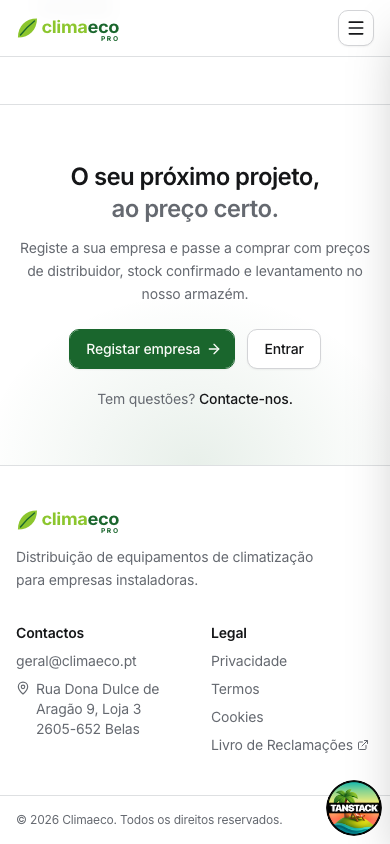
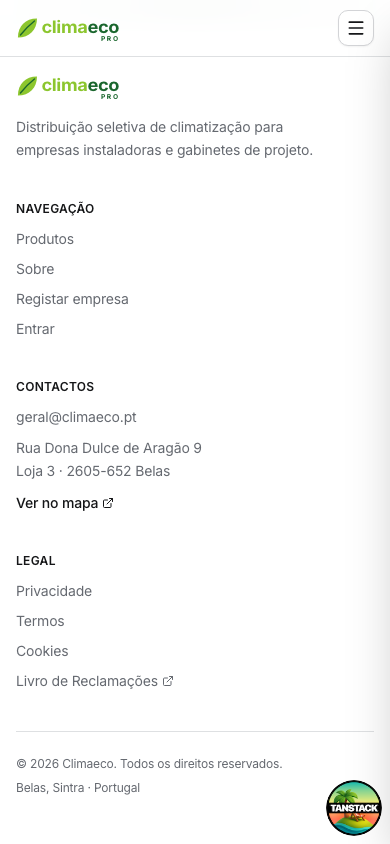
Landing: drop the steps' closing buttons; redesign the marketing footer
Footer is a four-column grid (brand, Navegação, Contactos, Legal) with
one link style, small uppercase column headings, the warehouse address
on two clean lines with a "Ver no mapa" link, and a bottom bar with the
copyright on the left and the location on the right. MORADA_ARMAZEM is
split into rua / loja / localidade so the footer and the map pill break
at sensible points.

Changed region(s): [[0.0308, 0.0924, 0.9538, 0.9858], [0.6154, 0.6469, 0.8, 0.6777], [0.6769, 0.4005, 0.7692, 0.4313]]

diff --git a/client-frontend/src/components/shell/marketing-shell.tsx b/client-frontend/src/components/shell/marketing-shell.tsx
@@ -1,6 +1,6 @@
 import { useEffect, useState } from "react"
 import { Link, useRouterState } from "@tanstack/react-router"
-import { ExternalLink, MapPin, Menu } from "lucide-react"
+import { ExternalLink, Menu } from "lucide-react"
 
 import { Wordmark } from "@/components/brand/wordmark"
 import { Button } from "@/components/ui/button"
@@ -176,40 +176,77 @@ function MenuMovel() {
 const LIGACAO_RODAPE =
   "text-sm text-muted-foreground transition-colors hover:text-foreground"
 
+/** One footer column: a small heading and a stack of links. */
+function ColunaRodape({
+  titulo,
+  children,
+}: {
+  titulo: string
+  children: React.ReactNode
+}) {
+  return (
+    <div className="flex flex-col gap-3">
+      <p className="text-xs font-semibold tracking-wide text-foreground uppercase">
+        {titulo}
+      </p>
+      <div className="flex flex-col gap-2.5">{children}</div>
+    </div>
+  )
+}
+
 function RodapeMarketing() {
   return (
     <footer id="contactos" className="mt-auto border-t">
-      <div className="mx-auto flex max-w-6xl flex-col gap-8 px-4 py-10 sm:px-6 md:flex-row md:items-start md:justify-between">
-        <div className="flex flex-col gap-3">
-          <Wordmark className="h-7 self-start" />
-          <p className="max-w-xs text-sm leading-relaxed text-muted-foreground">
-            Distribuição de equipamentos de climatização para empresas
-            instaladoras.
-          </p>
-        </div>
+      <div className="mx-auto max-w-6xl px-4 py-12 sm:px-6 md:py-14">
+        <div className="grid gap-10 md:grid-cols-[minmax(0,1.4fr)_repeat(3,minmax(0,1fr))] md:gap-8">
+          {/* Brand */}
+          <div className="flex max-w-xs flex-col gap-4">
+            <Wordmark className="h-7 self-start" />
+            <p className="text-sm leading-relaxed text-muted-foreground">
+              Distribuição seletiva de climatização para empresas instaladoras e
+              gabinetes de projeto.
+            </p>
+          </div>
 
-        <div className="grid grid-cols-2 gap-8 sm:grid-cols-3 md:gap-12">
-          <div className="flex flex-col gap-2">
-            <p className="text-sm font-semibold">Contactos</p>
+          <ColunaRodape titulo="Navegação">
+            <Link to="/produtos" className={LIGACAO_RODAPE}>
+              Produtos
+            </Link>
+            <a href="/sobre" className={LIGACAO_RODAPE}>
+              Sobre
+            </a>
+            <Link to="/registo" className={LIGACAO_RODAPE}>
+              Registar empresa
+            </Link>
+            <Link to="/entrar" className={LIGACAO_RODAPE}>
+              Entrar
+            </Link>
+          </ColunaRodape>
+
+          <ColunaRodape titulo="Contactos">
             <a href={MAILTO_GERAL} className={LIGACAO_RODAPE}>
               {EMAIL_GERAL}
             </a>
+            <p className="text-sm leading-relaxed text-muted-foreground">
+              {MORADA_ARMAZEM.rua}
+              <br />
+              {MORADA_ARMAZEM.loja} · {MORADA_ARMAZEM.localidade}
+            </p>
             <a
               href={MAPS_ARMAZEM}
               target="_blank"
               rel="noopener noreferrer"
-              className={cn(LIGACAO_RODAPE, "inline-flex items-start gap-1.5")}
+              className={cn(
+                LIGACAO_RODAPE,
+                "inline-flex items-center gap-1 font-medium text-foreground"
+              )}
             >
-              <MapPin className="mt-0.5 size-3.5 shrink-0" aria-hidden />
-              <span>
-                {MORADA_ARMAZEM.rua}
-                <br />
-                {MORADA_ARMAZEM.localidade}
-              </span>
+              Ver no mapa
+              <ExternalLink className="size-3" aria-hidden />
             </a>
-          </div>
-          <div className="flex flex-col gap-2">
-            <p className="text-sm font-semibold">Legal</p>
+          </ColunaRodape>
+
+          <ColunaRodape titulo="Legal">
             {LINKS_LEGAIS.map((l) => (
               <a key={l.href} href={l.href} className={LIGACAO_RODAPE}>
                 {l.label}
@@ -224,13 +261,15 @@ function RodapeMarketing() {
               Livro de Reclamações
               <ExternalLink className="size-3" aria-hidden />
             </a>
-          </div>
+          </ColunaRodape>
         </div>
-      </div>
-      <div className="border-t">
-        <p className="mx-auto max-w-6xl px-4 py-4 text-xs text-muted-foreground sm:px-6">
-          © {new Date().getFullYear()} Climaeco. Todos os direitos reservados.
-        </p>
+
+        <div className="mt-10 flex flex-col gap-2 border-t pt-6 text-xs text-muted-foreground sm:flex-row sm:items-center sm:justify-between md:mt-12">
+          <p>
+            © {new Date().getFullYear()} Climaeco. Todos os direitos reservados.
+          </p>
+          <p>Belas, Sintra · Portugal</p>
+        </div>
       </div>
     </footer>
   )

diff --git a/client-frontend/src/components/landing/sobre.tsx b/client-frontend/src/components/landing/sobre.tsx
@@ -140,7 +140,7 @@ function Armazem() {
           href={MAPS_ARMAZEM}
           target="_blank"
           rel="noopener noreferrer"
-          aria-label={`Abrir o armazém no Google Maps: ${MORADA_ARMAZEM.rua}, ${MORADA_ARMAZEM.localidade}`}
+          aria-label={`Abrir o armazém no Google Maps: ${MORADA_ARMAZEM.rua}, ${MORADA_ARMAZEM.loja}, ${MORADA_ARMAZEM.localidade}`}
           className="group/mapa absolute inset-0 flex items-center justify-center focus-visible:ring-2 focus-visible:ring-ring/50 focus-visible:outline-none focus-visible:ring-inset"
         >
           <img
@@ -165,8 +165,12 @@ function Armazem() {
             <span className="mt-2 inline-flex items-center gap-1.5 rounded-2xl border bg-background py-1.5 pr-2.5 pl-3 text-xs font-medium shadow-xs transition-colors group-hover/mapa:border-foreground/25 sm:rounded-full">
               {/* Two lines on phones, one line from `sm` up. */}
               <span className="flex flex-col items-center gap-0.5 text-center leading-tight sm:flex-row sm:gap-1">
-                <span>{MORADA_ARMAZEM.rua}</span>
-                <span aria-hidden className="hidden sm:inline">·</span>
+                <span>
+                  {MORADA_ARMAZEM.rua}, {MORADA_ARMAZEM.loja}
+                </span>
+                <span aria-hidden className="hidden sm:inline">
+                  ·
+                </span>
                 <span>{MORADA_ARMAZEM.localidade}</span>
               </span>
               <ArrowUpRight className="size-3.5 shrink-0 text-muted-foreground" />
@@ -184,7 +188,9 @@ function Armazem() {
       </div>
       <div className="flex flex-col gap-3 p-5 sm:flex-row sm:items-center sm:justify-between">
         <div>
-          <h3 className="text-sm font-semibold">Levantamento no nosso armazém</h3>
+          <h3 className="text-sm font-semibold">
+            Levantamento no nosso armazém
+          </h3>
           <p className="mt-1 text-xs leading-relaxed text-muted-foreground sm:text-sm">
             Stock confirmado junto dos fornecedores e pronto a levantar em
             Belas, Sintra.

diff --git a/client-frontend/src/components/landing/flow-steps.tsx b/client-frontend/src/components/landing/flow-steps.tsx
@@ -1,8 +1,5 @@
 import { useEffect, useRef, useState } from "react"
-import { Link } from "@tanstack/react-router"
-import { ArrowRight } from "lucide-react"
 
-import { Button } from "@/components/ui/button"
 import { cn } from "@/lib/utils"
 import {
   VinhetaEncomenda,
@@ -156,20 +153,6 @@ export function FlowSteps() {
             ))}
           </ol>
         </div>
-
-        <Reveal className="mt-14 flex flex-wrap gap-3 lg:mt-4">
-          <Button render={<Link to="/registo" />} nativeButton={false}>
-            Registar empresa
-            <ArrowRight data-icon="inline-end" />
-          </Button>
-          <Button
-            render={<Link to="/produtos" />}
-            nativeButton={false}
-            variant="outline"
-          >
-            Explorar o catálogo
-          </Button>
-        </Reveal>
       </div>
     </section>
   )

diff --git a/client-frontend/src/components/shell/nav.ts b/client-frontend/src/components/shell/nav.ts
@@ -14,7 +14,8 @@ export const MAILTO_CONTACTO = `mailto:${EMAIL_CONTACTO}`
 export const LIVRO_RECLAMACOES = "https://www.livroreclamacoes.pt/"
 // Warehouse (levantamento) address and its Google Maps pin.
 export const MORADA_ARMAZEM = {
-  rua: "Rua Dona Dulce de Aragão 9, Loja 3",
+  rua: "Rua Dona Dulce de Aragão 9",
+  loja: "Loja 3",
   localidade: "2605-652 Belas",
 }
 export const MAPS_ARMAZEM = "https://maps.app.goo.gl/RAV5jSFXStWP6k8H8"
